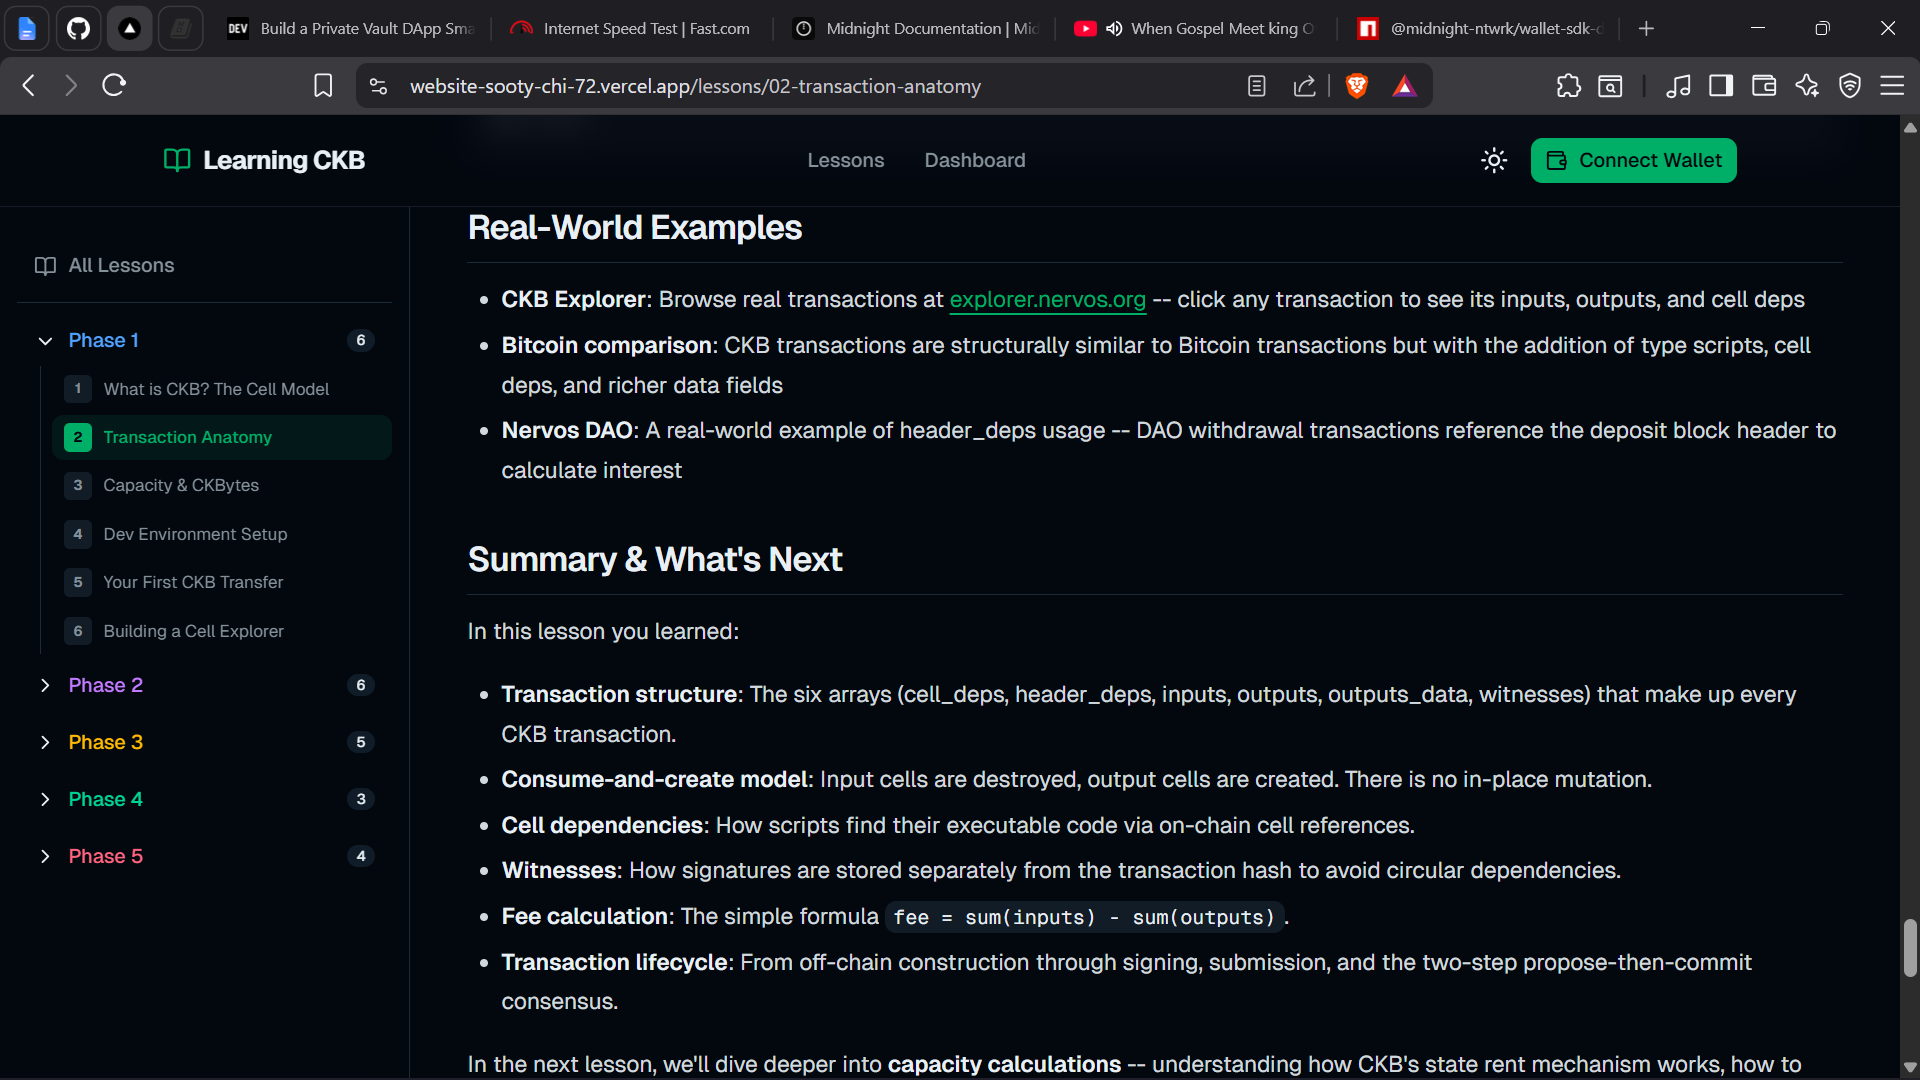
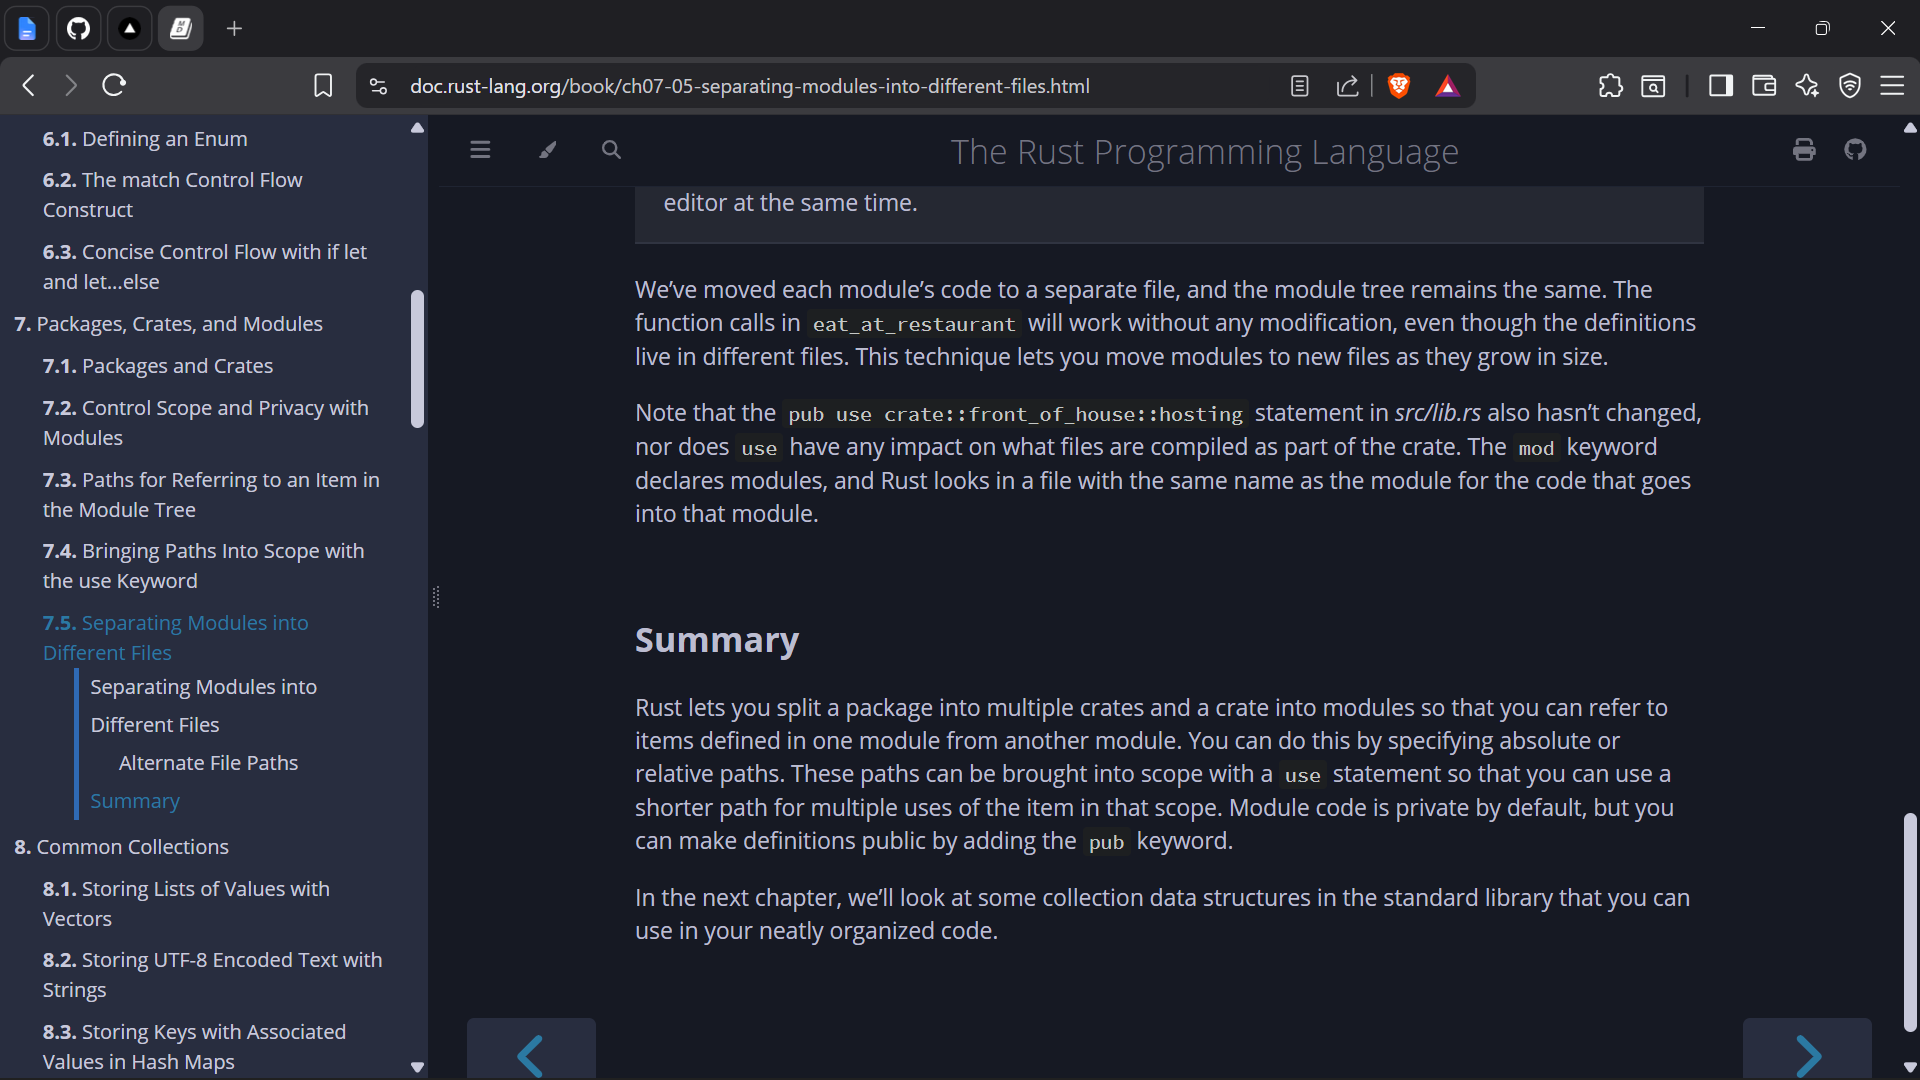
updated readme

diff --git a/reports/may_report/week_four/README.md b/reports/may_report/week_four/README.md
@@ -37,3 +37,6 @@
 - Improved familiarity with package layout, crate boundaries, and the difference between application code and reusable library code.
 - Worked through how public and private items affect API design, especially when deciding what should be available outside a module.
 - Built a clearer mental model of how Rust projects can grow from small examples into cleaner multi-file codebases while staying readable.
+
+
+![alt text](./images/image.png)
